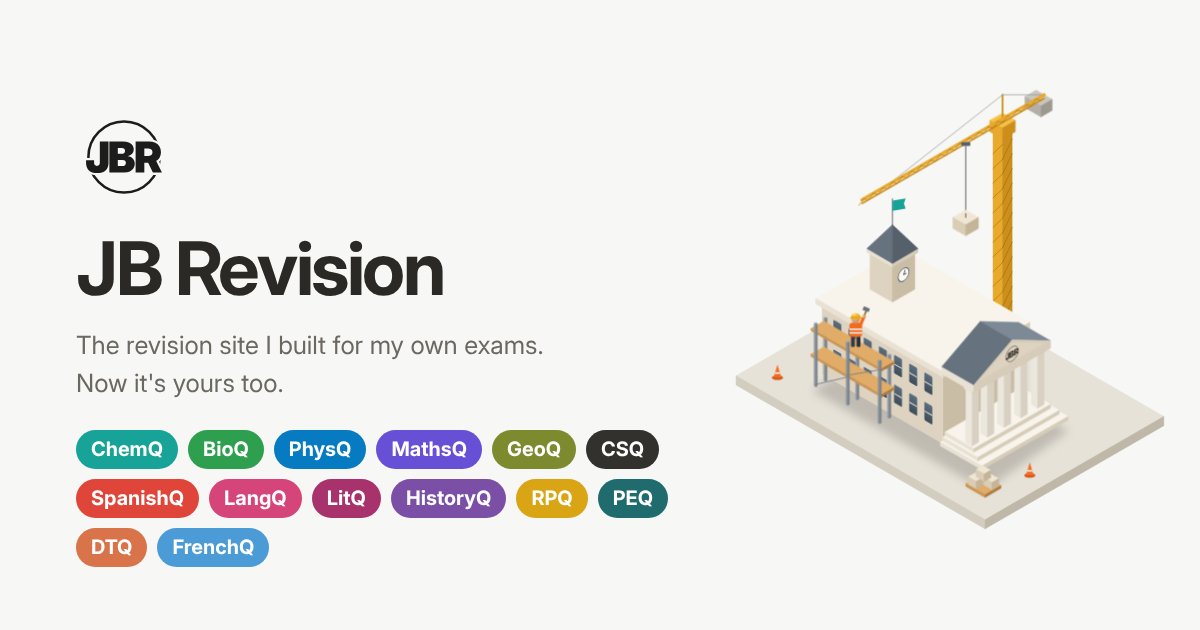
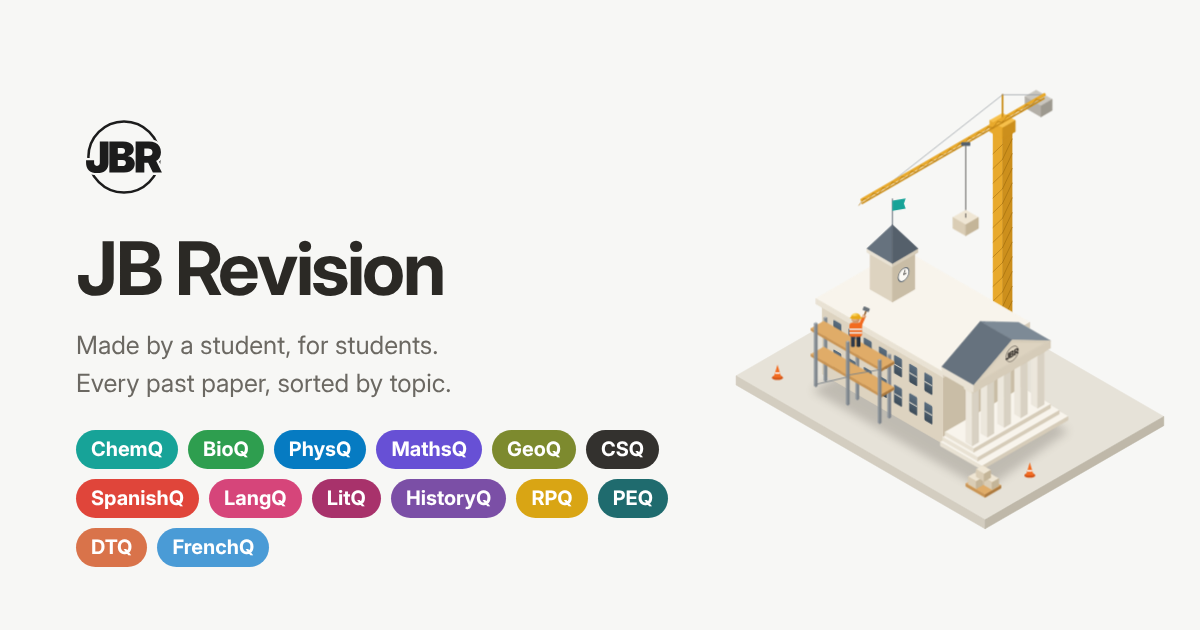
Tagline: "Made by a student, for students"
Josh picked this one over "The revision site I built for my own exams".
Updated on the sign-in page, meta/og descriptions and og.png.

Claude-Session: https://claude.ai/code/session_01LnQ2EoUwXvGqLKNu7sexrP

Changed region(s): [[0.0617, 0.5127, 0.4625, 0.573], [0.0617, 0.6032, 0.37, 0.6333]]

diff --git a/login.html b/login.html
@@ -4,17 +4,17 @@
   <meta charset="utf-8">
   <meta name="viewport" content="width=device-width, initial-scale=1">
   <title>JB Revision · GCSE and IGCSE past-paper questions</title>
-  <meta name="description" content="The revision site I built for my own exams, now open to everyone: past-paper questions and mark schemes, sorted by topic, for GCSE and International GCSE Chemistry, Biology, Physics, Maths, Geography, Computer Science, Spanish, French, English Language, English Literature, History, Religion and Philosophy, Sports Science (PE) and Design and Technology, each with its own mark scheme. Sign in to revise.">
+  <meta name="description" content="Made by a student, for students: past-paper questions and mark schemes, sorted by topic, for GCSE and International GCSE Chemistry, Biology, Physics, Maths, Geography, Computer Science, Spanish, French, English Language, English Literature, History, Religion and Philosophy, Sports Science (PE) and Design and Technology, each with its own mark scheme. Sign in to revise.">
   <link rel="canonical" href="https://jbrevision.co.uk/login">
   <meta property="og:type" content="website">
   <meta property="og:site_name" content="JB Revision">
   <meta property="og:title" content="JB Revision">
-  <meta property="og:description" content="The revision site I built for my own exams, now open to everyone: past-paper questions and mark schemes, sorted by topic, for GCSE and International GCSE Chemistry, Biology, Physics, Maths, Geography, Computer Science, Spanish, French, English Language, English Literature, History, Religion and Philosophy, Sports Science (PE) and Design and Technology, each with its own mark scheme. Sign in to revise.">
+  <meta property="og:description" content="Made by a student, for students: past-paper questions and mark schemes, sorted by topic, for GCSE and International GCSE Chemistry, Biology, Physics, Maths, Geography, Computer Science, Spanish, French, English Language, English Literature, History, Religion and Philosophy, Sports Science (PE) and Design and Technology, each with its own mark scheme. Sign in to revise.">
   <meta property="og:url" content="https://jbrevision.co.uk/login">
   <meta property="og:image" content="https://jbrevision.co.uk/og.png">
   <meta property="og:image:width" content="1200">
   <meta property="og:image:height" content="630">
-  <meta property="og:image:alt" content="JB Revision: the revision site I built for my own exams, now covering fourteen subjects">
+  <meta property="og:image:alt" content="JB Revision: made by a student, for students. Every past paper, sorted by topic, for fourteen subjects">
   <meta name="twitter:card" content="summary_large_image">
   <meta name="color-scheme" content="light dark">
   <script>try { var t = localStorage.getItem('hub-theme'); if (t) document.documentElement.setAttribute('data-theme', t); } catch (e) {}</script>
@@ -44,7 +44,7 @@
       <p class="login-switch"><span>New here?</span> <a href="#signup">Create an account</a></p>
       <p class="login-note">You stay signed in for 6 hours.</p>
       <p class="login-agree" hidden>By creating an account you agree to the <a href="/terms">Terms and Conditions</a> and the <a href="/privacy">Privacy Policy</a>.</p>
-      <p class="login-about">The revision site I built for my own exams. Now it&#39;s yours too. Past papers and mark schemes, sorted by topic, for 14 GCSE and IGCSE subjects.</p>
+      <p class="login-about">Made by a student, for students. Every past paper, sorted by topic, with its mark scheme, for 14 GCSE and IGCSE subjects.</p>
       <p class="login-legal"><a href="/privacy">Privacy Policy</a> · <a href="/terms">Terms</a> · <a href="#" data-cookie-settings>Cookie settings</a> · <span class="foot-email">contact@jbrevision.co.uk</span></p>
     </form>
   </main>
